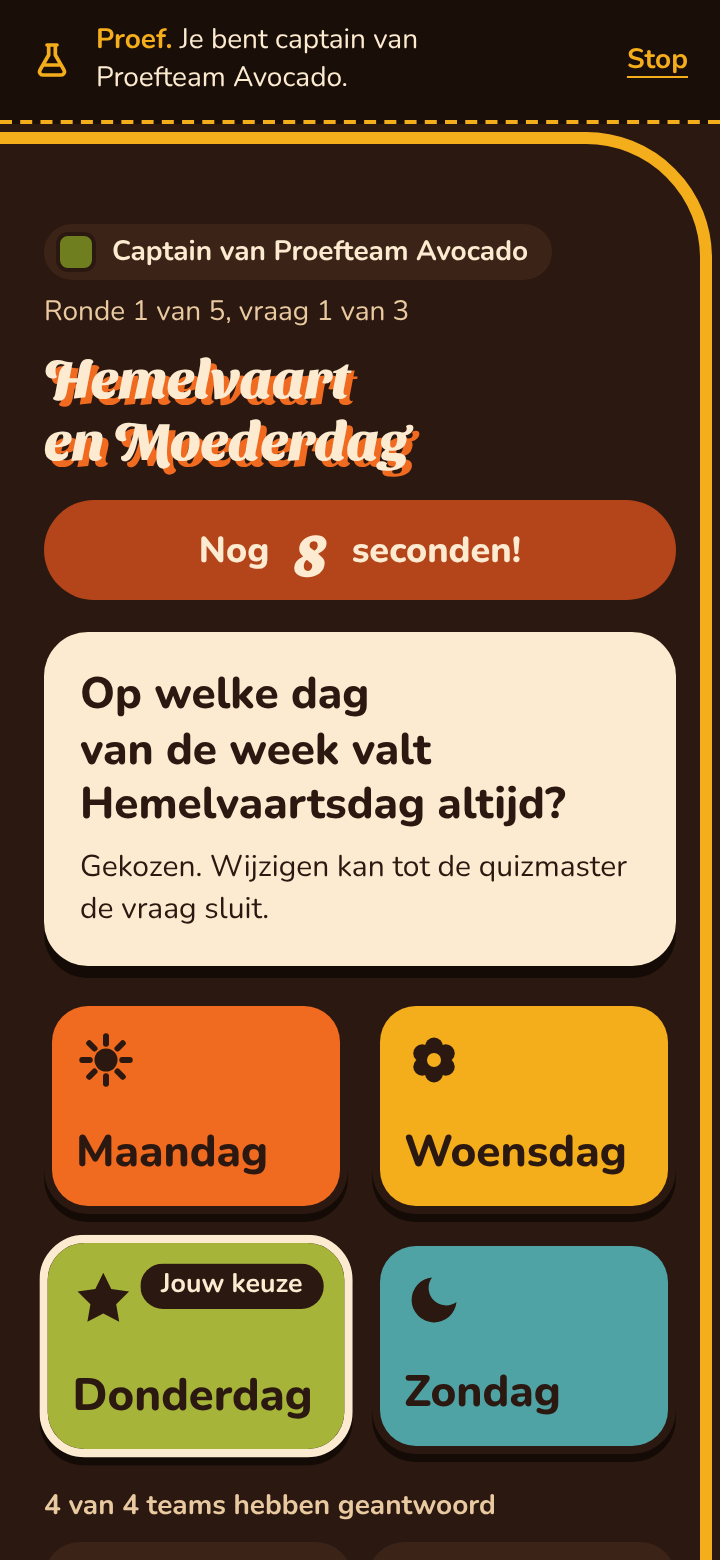
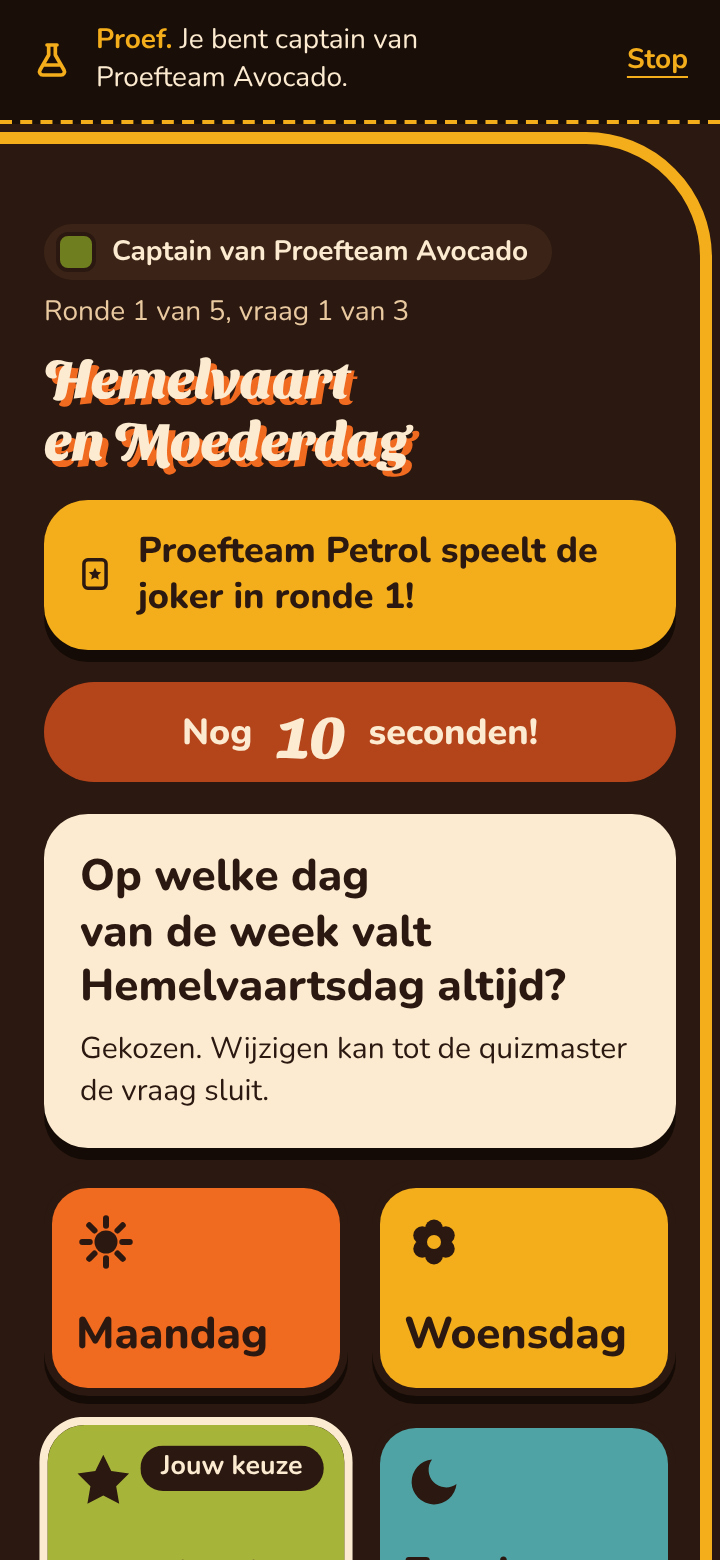
Quiz: jokerbanner ook als een telefoon de start miste
De jokerbanner begon pas bij te houden welke jokers er al waren zodra
de quiz op die telefoon liep. Miste een telefoon de start en kwam de
joker in dezelfde update binnen, dan gold hij als oud en verscheen er
geen banner. In CI ging de test daardoor mis. Nu houdt een hook het bij
vanaf het openen van de quizpagina.

De quiztest houdt de updates van meekijker Bram vast tot de joker
gespeeld is: met de oude code faalt hij altijd, met de nieuwe niet.

Verder:
- Een mislukte registratie van de service worker (privémodus, of
  geblokkeerd in tests) geeft geen onafgevangen fout meer.
- programma-thuis: bij een contrastfout toont de test welke kleuren axe
  zag, wat het als achtergrond nam en de stand van de dagknoppen. In CI
  faalt die controle op zondag soms; lokaal nooit.

Claude-Session: https://claude.ai/code/session_018cVwm8MkENnaPvc7niuY7m

diff --git a/tests/e2e/quiz.spec.ts b/tests/e2e/quiz.spec.ts
@@ -62,6 +62,16 @@ test("een mini-quiz met quizmaster, vier captains en twee meekijkers", async ({ 
   await eva.page.goto("/quiz");
   await expect(bram.page.getByRole("heading", { level: 1, name: "De quiz" })).toBeVisible();
 
+  // Bram's phone misses the start: it hears of the start and Petrol's joker in one go
+  // (its state requests wait), and must still show the joker banner.
+  let laatBramDoor = () => {};
+  const bramMagDoor = new Promise<void>((resolve) => (laatBramDoor = resolve));
+  await bram.page.route("**/api/quiz/state", async (route) => {
+    await bramMagDoor;
+    // The phone may have given up on a request that waited: then there is nothing to continue.
+    await route.continue().catch(() => {});
+  });
+
   // The quizmaster starts the demo quiz.
   await admin.goto("/beheer/quiz/console");
   await expect(admin.getByRole("heading", { name: "Start de quiz" })).toBeVisible();
@@ -74,7 +84,7 @@ test("een mini-quiz met quizmaster, vier captains en twee meekijkers", async ({ 
   for (const kleur of KLEUREN) await wachtOpFase(captain[kleur].page, "rondescherm");
   const oranje = captain.Oranje.page;
   await expect(oranje.getByRole("heading", { level: 1, name: /Hemelvaart en\sMoederdag/ })).toBeVisible();
-  const vooraf = JSON.stringify(await stand(bram.page));
+  const vooraf = JSON.stringify(await stand(eva.page));
   expect(vooraf).not.toContain("Hemelvaartsdag");
   expect(vooraf).not.toContain("Donderdag");
   await check(oranje, "40-quiz-rondescherm-captain");
@@ -83,6 +93,9 @@ test("een mini-quiz met quizmaster, vier captains en twee meekijkers", async ({ 
   const petrol = captain.Petrol.page;
   await petrol.getByRole("button", { name: "Speel de joker in ronde 1" }).click();
   await petrol.getByRole("button", { name: "Ja, speel de joker" }).click();
+  await expect.poll(async () => ((await stand(eva.page)).jokers as unknown[]).length).toBe(1);
+  laatBramDoor();
+  await bram.page.unroute("**/api/quiz/state");
   await expect(bram.page.getByText(/Proefteam Petrol speelt de joker in ronde\s1!/).first()).toBeVisible({ timeout: 15_000 });
   await check(bram.page, "41-quiz-jokerbanier", { scroll: false });
   await expect(petrol.getByRole("button", { name: /Speel de joker/ })).toHaveCount(0);

diff --git a/src/components/quiz/QuizScherm.tsx b/src/components/quiz/QuizScherm.tsx
@@ -79,6 +79,7 @@ export function QuizScherm({ initial, kop, children }: { initial: QuizView; kop:
   // Sound is on by default only for captains; everyone can switch it.
   const voorkeur = useSyncExternalStore(abonneerGeluid, leesGeluid, () => null);
   const geluidAan = voorkeur === null ? captain : voorkeur;
+  const nieuweJokers = useNieuweJokers(view.jokers);
 
   if (!loopt) {
     return (
@@ -123,7 +124,7 @@ export function QuizScherm({ initial, kop, children }: { initial: QuizView; kop:
           </Link>
         </div>
       ) : null}
-      <JokerBanier jokers={view.jokers} />
+      <JokerBanier nieuw={nieuweJokers} />
       {error ? (
         <p role="status" className="m-0 mt-3 text-label text-zand">
           Even geen verbinding. De app probeert het steeds opnieuw.
@@ -196,8 +197,12 @@ function Aankondiging({ view }: { view: QuizView }) {
   );
 }
 
-/** "Team Petrol speelt de joker in ronde 4!" on every phone, the moment it happens. */
-function JokerBanier({ jokers }: { jokers: QuizView["jokers"] }) {
+/**
+ * The jokers played since this phone opened the quiz page, for seven seconds
+ * each. Runs from the first render, also before the quiz starts: a joker
+ * played before this phone saw the start is still new.
+ */
+function useNieuweJokers(jokers: QuizView["jokers"]): QuizView["jokers"] {
   const gezien = useRef<Set<string> | null>(null);
   const [nieuw, setNieuw] = useState<QuizView["jokers"]>([]);
   useEffect(() => {
@@ -218,6 +223,11 @@ function JokerBanier({ jokers }: { jokers: QuizView["jokers"] }) {
     const weg = setTimeout(() => setNieuw([]), 7000);
     return () => clearTimeout(weg);
   }, [nieuw]);
+  return nieuw;
+}
+
+/** "Team Petrol speelt de joker in ronde 4!" on every phone, the moment it happens. */
+function JokerBanier({ nieuw }: { nieuw: QuizView["jokers"] }) {
   if (nieuw.length === 0) return null;
   return (
     <div role="status" className="mt-4 flex flex-col gap-2">

diff --git a/tests/e2e/programma-thuis.spec.ts b/tests/e2e/programma-thuis.spec.ts
@@ -151,7 +151,21 @@ async function check(page: Page, info: TestInfo, name: string) {
   const results = await new AxeBuilder({ page })
     .withTags(["wcag2a", "wcag2aa", "wcag21a", "wcag21aa", "wcag22aa"])
     .analyze();
-  const problems = results.violations.map((v) => `${v.id}: ${v.nodes.map((n) => n.target.join(" ")).join(", ")}`);
+  // For contrast problems: the colours axe saw and what it took as the background.
+  const problems = results.violations.map((v) => {
+    const nodes = v.nodes.map((n) => {
+      const data = n.any[0]?.data as { fgColor?: string; bgColor?: string; contrastRatio?: number } | undefined;
+      const behind = n.any[0]?.relatedNodes?.map((r) => r.target.join(" ")).join(" + ");
+      return data?.fgColor ? `${n.target.join(" ")} (${data.fgColor} op ${data.bgColor} = ${data.contrastRatio}, achter: ${behind})` : n.target.join(" ");
+    });
+    return `${v.id}: ${nodes.join(", ")}`;
+  });
+  if (problems.length > 0) {
+    const tabs = await page.getByRole("tab").evaluateAll((elements) =>
+      elements.map((el) => `${el.id} ${el.getAttribute("aria-selected")} ${getComputedStyle(el).color} op ${getComputedStyle(el).backgroundColor}`),
+    );
+    console.log(`Tabs op ${name} na axe: ${tabs.join(" | ") || "geen"}`);
+  }
   expect(problems, `toegankelijkheid op ${name}`).toEqual([]);
   expect(await losseWoorden(page), `losse woorden op ${name}`).toEqual([]);
   const overflow = await page.evaluate(() => document.documentElement.scrollWidth - window.innerWidth);

diff --git a/src/components/pwa/AppSignalen.tsx b/src/components/pwa/AppSignalen.tsx
@@ -57,7 +57,8 @@ export function AppSignalen({ swEnabled }: { swEnabled: boolean }) {
     };
     serwist.addEventListener("waiting", onWaiting);
     serwist.addEventListener("controlling", onControlling);
-    void serwist.register();
+    // Registering can fail (private mode, blocked in tests): the app works without it.
+    serwist.register().catch(() => {});
     // Check for a new version whenever the app comes back to the foreground.
     const onVisible = () => {
       if (document.visibilityState === "visible") void serwist.update();
